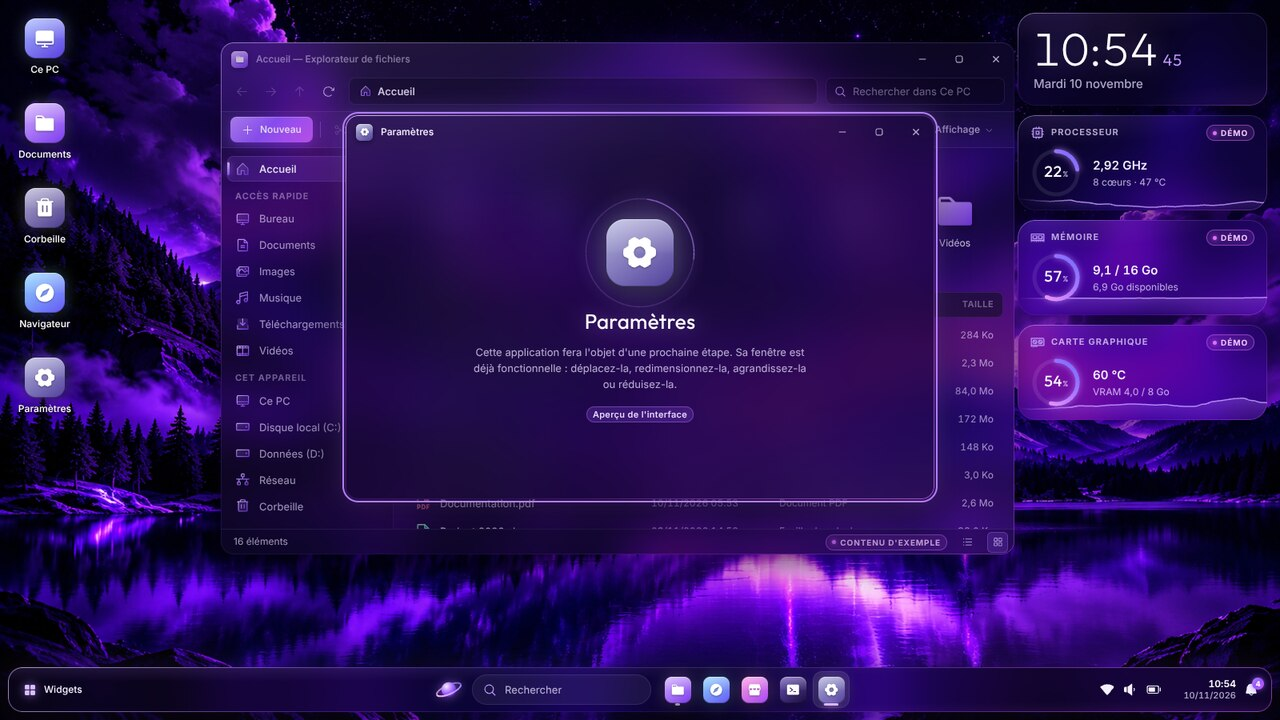
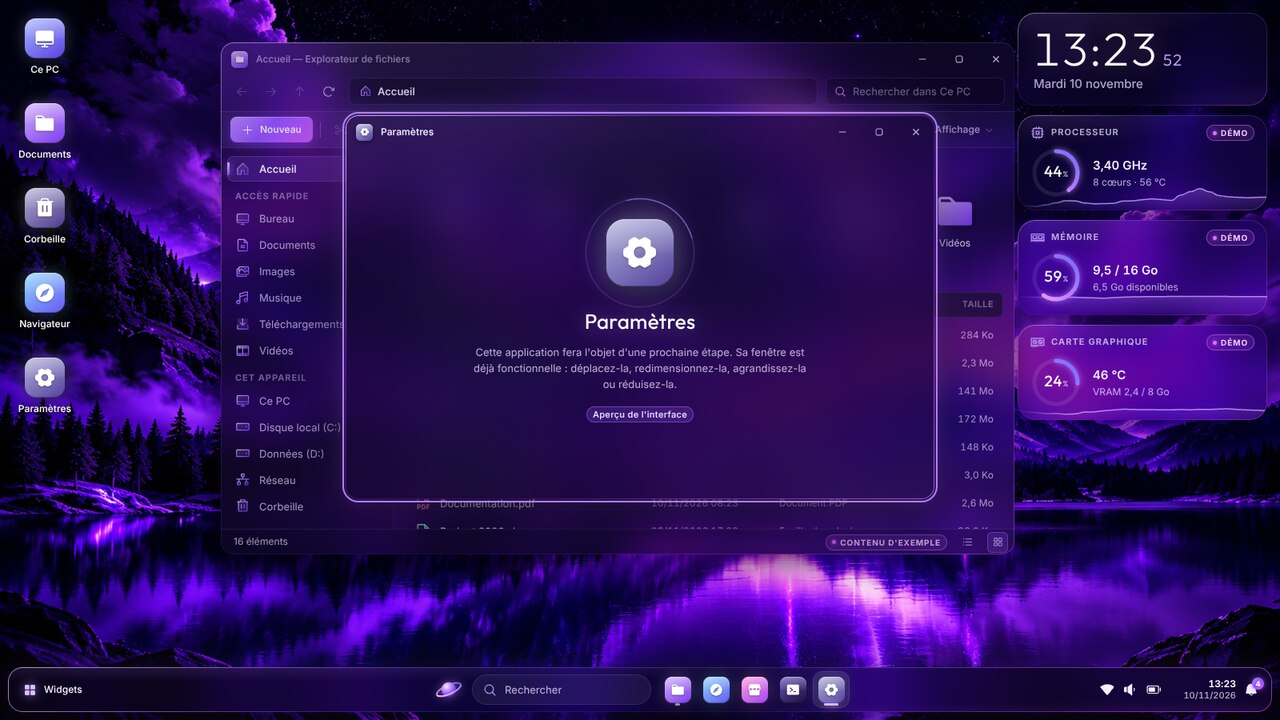
Composants tiers : lanceur NSIS sans module 7-Zip ; captures d'écran à jour

diff --git a/THIRD-PARTY-NOTICES.md b/THIRD-PARTY-NOTICES.md
@@ -10,7 +10,7 @@ propre licence, reproduite ou référencée ici.
 | [Outfit](https://github.com/Outfitio/Outfit-Fonts) | Police des titres et des chiffres | SIL Open Font License 1.1 | Oui (`assets/fonts/outfit/`) |
 | [Electron](https://www.electronjs.org) 45 (Chromium, Node.js) | Moteur de l'application de bureau | MIT, BSD et autres | Oui |
 | [electron-builder](https://www.electron.build) 26 | Fabrication de l'exécutable portable | MIT | Non (outil de compilation) |
-| [NSIS](https://nsis.sourceforge.io) et son module d'extraction issu de [7-Zip](https://www.7-zip.org) | Lanceur du fichier `.exe` : décompresse l'application puis la démarre | zlib/libpng (NSIS), GNU LGPL (7-Zip) | Oui (ajoutés par electron-builder) |
+| [NSIS](https://nsis.sourceforge.io) et ses modules System et [StdUtils](https://github.com/lordmulder/stdutils) | Lanceur du fichier `.exe` : décompresse l'application puis la démarre | zlib/libpng (NSIS, System), GNU LGPL 2.1 (StdUtils, copie non modifiée) | Oui (ajoutés par electron-builder) |
 
 Le fond d'écran (`assets/wallpapers/panorama-cosmique-violet-sur-lac-miroir.png`)
 est l'image fournie par l'auteur du projet ; elle est intégrée sans aucune
